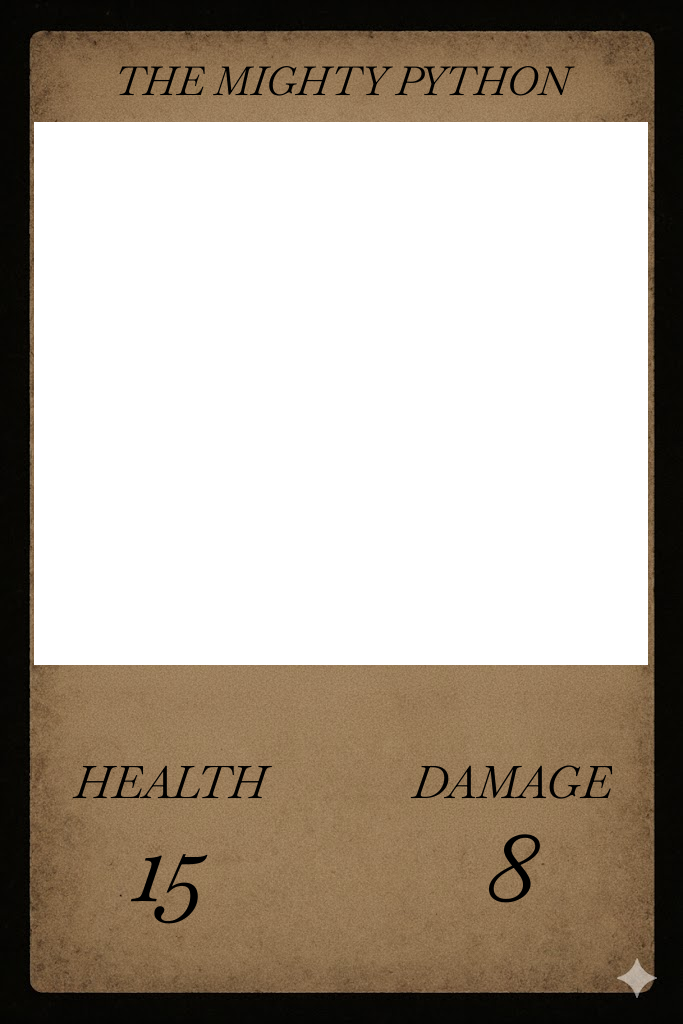
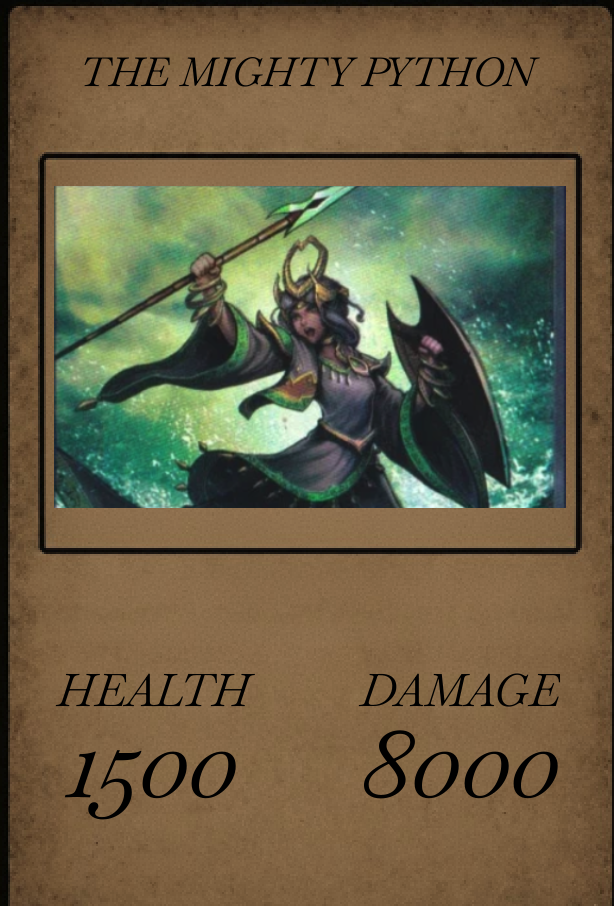
fixed render.py

diff --git a/render.py b/render.py
@@ -1,10 +1,9 @@
 import os
 from PIL import Image, ImageDraw, ImageFont
 
-def generate_custom_card(health, damage, name, image_path, output_filename="custom_card.png"):
+def generate_custom_card(health, damage, name, base_path, output_filename="custom_card.png"):
     
-    base_path = "assets/cards/base.png"
-    image_path = "assets/cards/images/" + image_path
+    #base_path = "assets/cards/base.png"
         
     base_card = Image.open(base_path).convert("RGBA")
     draw = ImageDraw.Draw(base_card)
@@ -21,20 +20,11 @@ def generate_custom_card(health, damage, name, image_path, output_filename="cust
     number_y = int(card_height * 0.88)
 
     image_area_box = (
-        int(card_width * 0.01),   # Left X
+        int(card_width * 0.05),   # Left X
         int(card_height * 0.12),  # Top Y
         int(card_width * 0.95),   # Right X
         int(card_height * 0.65)   # Bottom Y
     )
-    
-    custom_img = Image.open(image_path).convert("RGBA")
-    
-    box_width = image_area_box[2] - image_area_box[0]
-    box_height = image_area_box[3] - image_area_box[1]
-
-    custom_img = custom_img.resize((box_width, box_height), Image.Resampling.LANCZOS)
-
-    base_card.paste(custom_img, (image_area_box[0], image_area_box[1]), custom_img)
 
     draw.text((card_width/2, name_y), name.upper(), fill="#000000", font=title_font, anchor="mm", align="center")
     draw.text((health_x, stat_line_y), "HEALTH", fill="#000000", font=stat_font, anchor="ms", align="center")
@@ -42,16 +32,16 @@ def generate_custom_card(health, damage, name, image_path, output_filename="cust
     draw.text((health_x, number_y), health, fill="#000000", font=number_font, anchor="ms", align="center")
     draw.text((damage_x, number_y), damage, fill="#000000", font=number_font, anchor="ms", align="center")
     
-    base_card.save(output_filename)
+    base_card.save(f'assets/cards/out/{output_filename}')
 
 
 if __name__ == '__main__':
     os.makedirs("assets/cards", exist_ok=True) 
 
     generate_custom_card(
-        health="15", 
-        damage="8", 
+        health="1500", 
+        damage="8000", 
         name="The Mighty Python", 
-        image_path="placeholder.jpg", 
+        base_path="assets/cards/images/0.png",
         output_filename="python_hero_card_large_font.png"
     )
